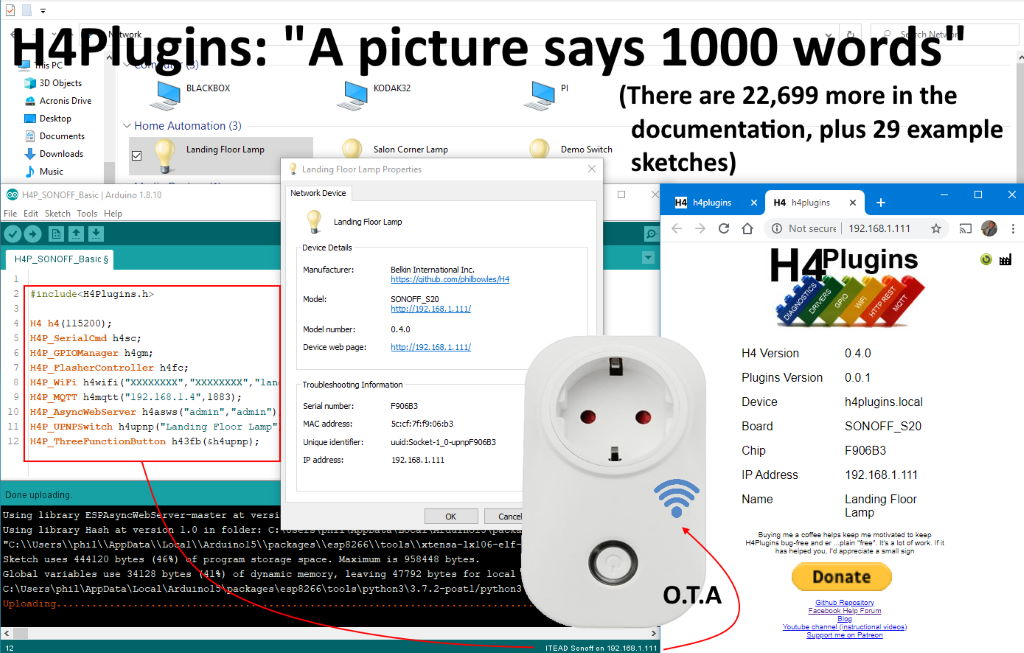
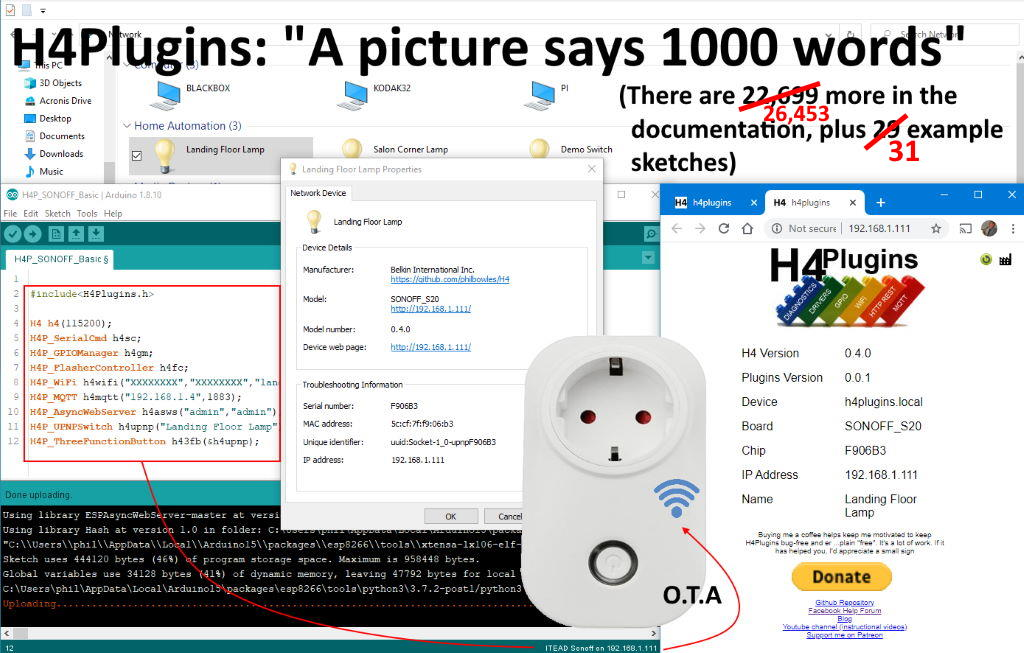
doc tweaks / typos

Changed region(s): [[0.7188, 0.1225, 0.8125, 0.1838], [0.8438, 0.1838, 0.9062, 0.245]]

diff --git a/docs/h4logs.md b/docs/h4logs.md
@@ -197,9 +197,120 @@ The code would look like this:
 
 ```cpp
 
+#include <H4PCommon.h>
+
+class myLogger: public H4PLogService {
+        void        _logEvent(const string &msg,H4P_LOG_TYPE type,const string& source,const string& target,uint32_t error){
+            if(_running) {
+                Serial.print("myLogger ");
+                Serial.print(millis());
+                Serial.print(" ");
+                Serial.println(msg.c_str()); // or  Serial.println(CSTR(msg));
+            }
+        }
+    public:
+        myLogger(): H4PLogService("mylog"){
+            subid=H4PC_MYLOG; // see note below
+            _names={ {H4P_TRID_MYLOG,uppercase(_pid)} }; // see note below
+        }
+};
+
 ```
 
-## MySQL schema
+**Note** to get the next values for `H4PC_MYLOG` and `H4P_TRID_MYLOG` you need to edit `H4PCommon.h`
+
+```cpp
+...
+  H4P_TRID_NTFY,
+  H4P_TRID_UBSW,
+  H4P_TRID_3FNB,
+  H4P_TRID_CERR,
+  H4P_TRID_SCMD,
+  H4P_TRID_QWRN,
+  H4P_TRID_SNIF,
+  H4P_TRID_LLOG,
+  H4P_TRID_SLOG,
+  H4P_TRID_CURL, // comma added by you
+  H4P_TRID_MYLOG // ADD THIS HERE and put a comma at the end of the line above
+};
+
+enum H4PC_CMD_ID{
+    H4PC_ROOT=1,
+    H4PC_SHOW,
+    H4PC_SNIF,
+    H4PC_QWRN,
+    H4PC_ESW_ROOT,
+    H4PC_ESW_SET,
+    H4PC_ESW_SWEEP,
+    H4PC_WIFI,
+    H4PC_MQTT,
+    H4PC_ASWS,
+    H4PC_SPIF,
+    H4PC_UPNP, 
+    H4PC_LLOG, 
+    H4PC_SLOG,
+    H4PC_CURL, // comma added by you
+    H4PC_MYLOG // ADD THIS HERE and put a comma at the end of the line above
+};
+...
+```
+
+...and that's it! Then add the new logger to your sketch - Everything else is automatic.
+
+[Example Code](../examples/H4P_CustomLogger/H4P_CustomLogger.ino)
+
+## Output form Example sketch
+```cpp
+slog
+SVC slog UP
+mylog
+myLogger 117 mylog
+SVC mylog UP
+normal call
+myLogger 117 normal call
+test1
+myLogger 117 test1
+Ztest2
+myLogger 118 Ztest2
+scmd: h4/dump
+scmd: h4/mylog/msg
+scmd: h4/mylog/restart
+scmd: h4/mylog/start
+scmd: h4/mylog/stop
+scmd: h4/reboot
+scmd: h4/show/all
+scmd: h4/show/config
+scmd: h4/show/q
+scmd: h4/show/qstats
+scmd: h4/show/spif
+scmd: h4/show/tnames
+scmd: h4/show/unload
+scmd: h4/slog/msg
+scmd: h4/slog/restart
+scmd: h4/slog/start
+scmd: h4/slog/stop
+scmd: h4/unload
+scmd: help
+help
+myLogger 40943 help
+
+```
+
+---
+
+## MySQL schema (for future use)
+
+CREATE TABLE `event` (
+  `id` int(11) NOT NULL AUTO_INCREMENT,
+  `ts` timestamp NOT NULL DEFAULT CURRENT_TIMESTAMP,
+  `type` int(11) NOT NULL,
+  `error` int(11) NOT NULL,
+  `source` varchar(16) DEFAULT NULL,
+  `target` varchar(16) DEFAULT NULL,
+  `msg` varchar(64) DEFAULT NULL,
+  PRIMARY KEY (`id`),
+  UNIQUE KEY `id_UNIQUE` (`id`)
+) ENGINE=InnoDB DEFAULT CHARSET=utf8mb4 COLLATE=utf8mb4_0900_ai_ci
 
 ---
 

diff --git a/README.md b/README.md
@@ -49,7 +49,7 @@ As you can see, all you need to do is list the modules you want (in the right or
 
 The modular design of H4's plugin architecture minimises scarce resources in low-memory MCU targets: You only compile in what you need with a simple `#include`. Detailed diagnostics can be easily included and controlled at runtime via the serial console, HTTP REST or MQTT depending on which options you choose. It is built on top of the very stable [H4](https://github.com/philbowles/H4) timer/scheduler which traces its ancestry back to "Esparto" - of which one user recently said: *"and now have Esparto modules with months of uptime without an issue"*.
 
-There are 30 example sketches demonstrating the features and API of all of the plugins. They should be used both as a template and a learning resource.
+There are 31 example sketches demonstrating the features and API of all of the plugins. They should be used both as a template and a learning resource.
 
 Users are strongly recommended to work through them in the order [listed below](readme.md#current-plugins-februrary-2020)
 
